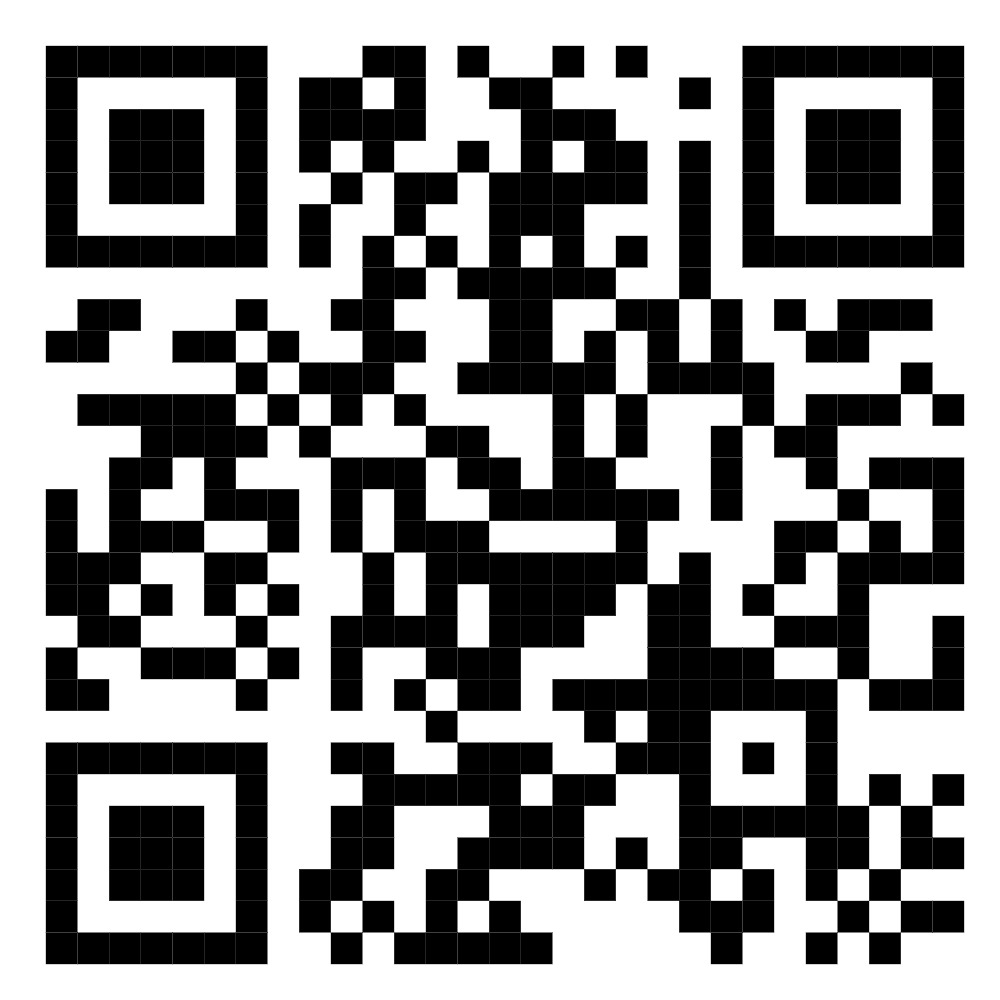
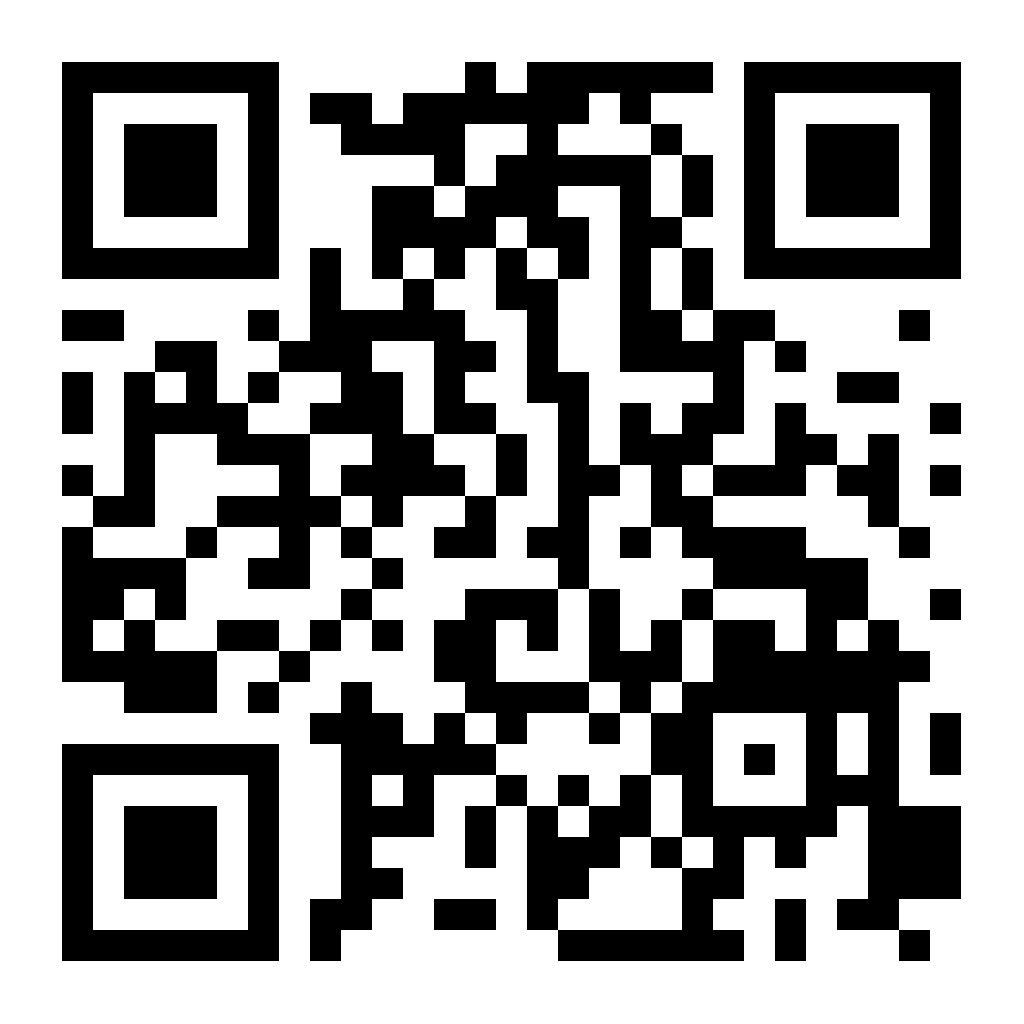
qr updated

diff --git a/src/components/Footer.tsx b/src/components/Footer.tsx
@@ -49,7 +49,7 @@ export default function Footer() {
                     <div>
                         <h3 className="text-white font-bold mb-4 md:mb-6 font-mono text-xs md:text-sm uppercase tracking-wider">Social Feed</h3>
                         <div className="flex space-x-3 md:space-x-4">
-                            <SocialIcon icon={<Instagram className="w-4 h-4 md:w-5 md:h-5" />} />
+                            <SocialIcon href="https://www.instagram.com/pytech_arena_hackathon?utm_source=qr&igsh=MWszbW1xNjlqcGNidg==" icon={<Instagram className="w-4 h-4 md:w-5 md:h-5" />} />
                             <SocialIcon icon={<Twitter className="w-4 h-4 md:w-5 md:h-5" />} />
                             <SocialIcon icon={<Linkedin className="w-4 h-4 md:w-5 md:h-5" />} />
                         </div>
@@ -68,9 +68,9 @@ export default function Footer() {
     );
 }
 
-function SocialIcon({ icon }: { icon: React.ReactNode }) {
+function SocialIcon({ icon, href = "#" }: { icon: React.ReactNode, href?: string }) {
     return (
-        <a href="#" className="w-10 h-10 rounded-lg bg-white/5 border border-white/5 flex items-center justify-center text-gray-400 hover:bg-white/10 hover:text-white hover:border-white/20 transition-all transform hover:-translate-y-1">
+        <a href={href} className="w-10 h-10 rounded-lg bg-white/5 border border-white/5 flex items-center justify-center text-gray-400 hover:bg-white/10 hover:text-white hover:border-white/20 transition-all transform hover:-translate-y-1">
             {icon}
         </a>
     )

diff --git a/src/app/contact/page.tsx b/src/app/contact/page.tsx
@@ -9,8 +9,8 @@ const contacts = [
         phone: "+91 6303843315",
         image: "/coordinators/ramakrishna.jpeg",
         socials: {
-            linkedin: "https://linkedin.com/in/ramakrishna",
-            instagram: "https://instagram.com/ramakrishna"
+            linkedin: "https://www.linkedin.com/in/penuganti-ramakrishna-21aa47278?utm_source=share_via&utm_content=profile&utm_medium=member_android",
+            instagram: "https://www.instagram.com/p.rama_krishna_49?igsh=NmJlcXdpMmVjZmps"
         }
     },
     {
@@ -18,8 +18,8 @@ const contacts = [
         phone: "+91 9701458518",
         image: "/coordinators/vinay.jpeg",
         socials: {
-            linkedin: "https://linkedin.com/in/ramakrishna",
-            instagram: "https://instagram.com/ramakrishna"
+            linkedin: "https://www.linkedin.com/in/juttukavinay?utm_source=share_via&utm_content=profile&utm_medium=member_android",
+            instagram: "https://www.instagram.com/vinay_.rider?igsh=MTQxdjJ2aWlrNTc4"
         }
     },
     {
@@ -27,7 +27,7 @@ const contacts = [
         phone: "+91 8919496691",
         image: "/coordinators/ramayya.jpeg",
         socials: {
-            linkedin: "https://linkedin.com/in/ramakrishna",
+            linkedin: "https://www.linkedin.com/in/sakalokajanakiramayya?utm_source=share_via&utm_content=profile&utm_medium=member_android",
             instagram: "https://instagram.com/ramakrishna"
         }
     },

diff --git a/src/app/register/beginner/page.tsx b/src/app/register/beginner/page.tsx
@@ -139,7 +139,7 @@ export default function BeginnerRegistration() {
                             </div>
 
                             <a
-                                href="https://docs.google.com/forms/d/e/1FAIpQLSeT7DKUjlryiGvv0YKPtnDSWMrQH8QjTnH0E8PWG5NAlAFUuw/viewform"
+                                href="https://forms.gle/rCRqUhB8HD4tGWSA6"
                                 target="_blank"
                                 rel="noopener noreferrer"
                                 className="block w-full py-4 bg-purple-600 hover:bg-purple-700 text-white rounded-xl font-bold transition-all shadow-lg shadow-purple-900/40"
